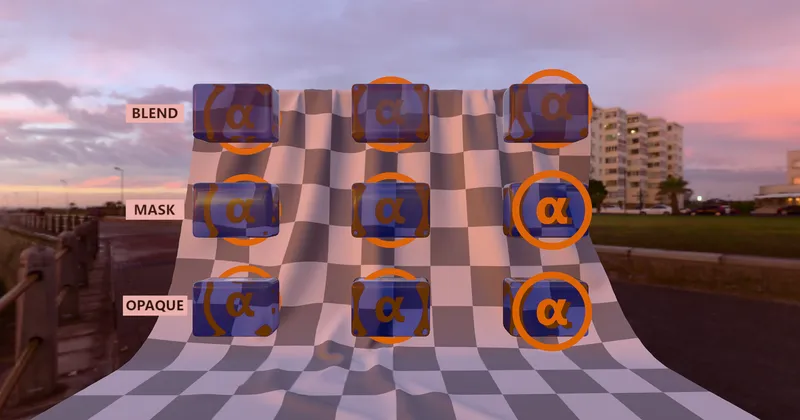
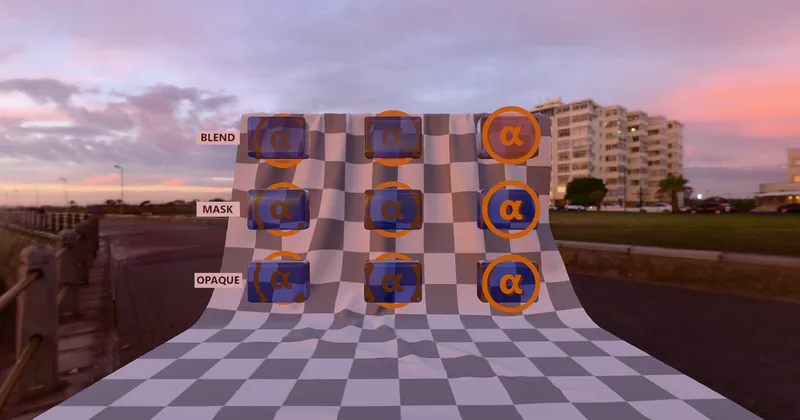
V4.5.0-Alpha-rnd 2Path 렌더 투명 객체 정렬 처리 수정
- use2PathRender 번들에 mesh 참조 추가
- 2Path 렌더 레이어를 카메라 기준 투명 객체 정렬 후 실행
- 2Path 패스에서 alpha/transparent 레이어 추가 렌더링 처리

diff --git a/src/renderer/Renderer.ts b/src/renderer/Renderer.ts
@@ -399,7 +399,18 @@ class Renderer {
                 },
             }, (renderPassEncoder) => {
                 updateViewportAndScissor(view, renderPassEncoder)
-                renderPassEncoder.executeBundles(renderViewStateData.renderBundleResults.bundleListRender2PathLayer);
+                const {
+                    bundleListRender2PathLayer,
+                    bundleListAlphaLayer,
+                    bundleListTransparentLayer
+                } = renderViewStateData.renderBundleResults
+                renderPassEncoder.executeBundles(sortTransparentObjects(view.rawCamera, bundleListRender2PathLayer));
+                if (bundleListAlphaLayer.length) {
+                    renderPassEncoder.executeBundles(bundleListAlphaLayer);
+                }
+                if (bundleListTransparentLayer.length) {
+                    renderPassEncoder.executeBundles(bundleListTransparentLayer);
+                }
             });
 
             if (useMSAA && this.#needSingleSampleDepthResolve(view)) {

diff --git a/src/display/mesh/Mesh.ts b/src/display/mesh/Mesh.ts
@@ -1653,6 +1653,8 @@ class Mesh extends MeshBase {
                         bundleListDebuggerLayer[bundleListDebuggerLayer.length] = renderBundle
                     } else if (currentMaterial.use2PathRender) {
                         bundleListRender2PathLayer[bundleListRender2PathLayer.length] = renderBundle
+                        // @ts-ignore
+                        renderBundle.mesh = this
                     } else if (this['isInstanceofParticle']) {
                         bundleListParticleLayer[bundleListParticleLayer.length] = renderBundle
                     } else if (currentMaterial.transparent) {
